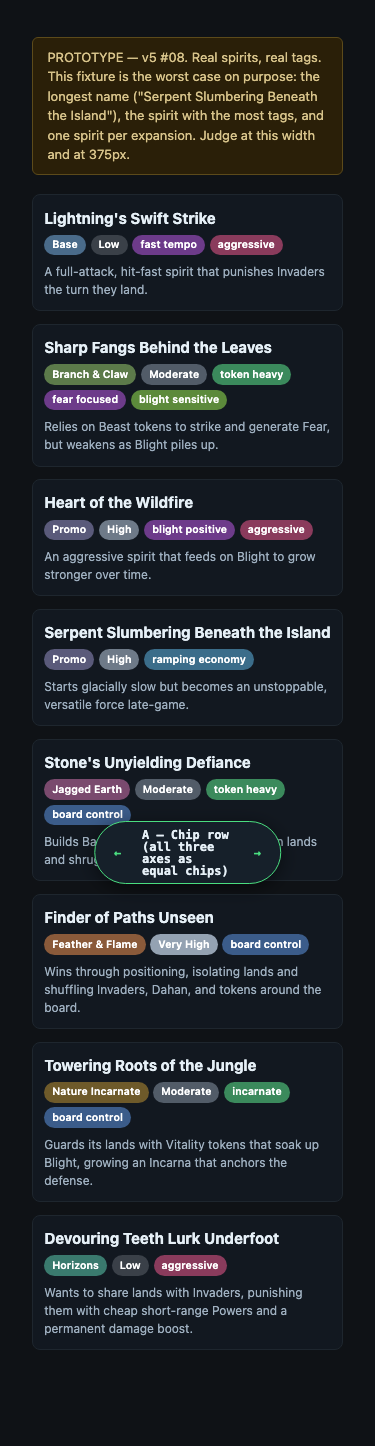
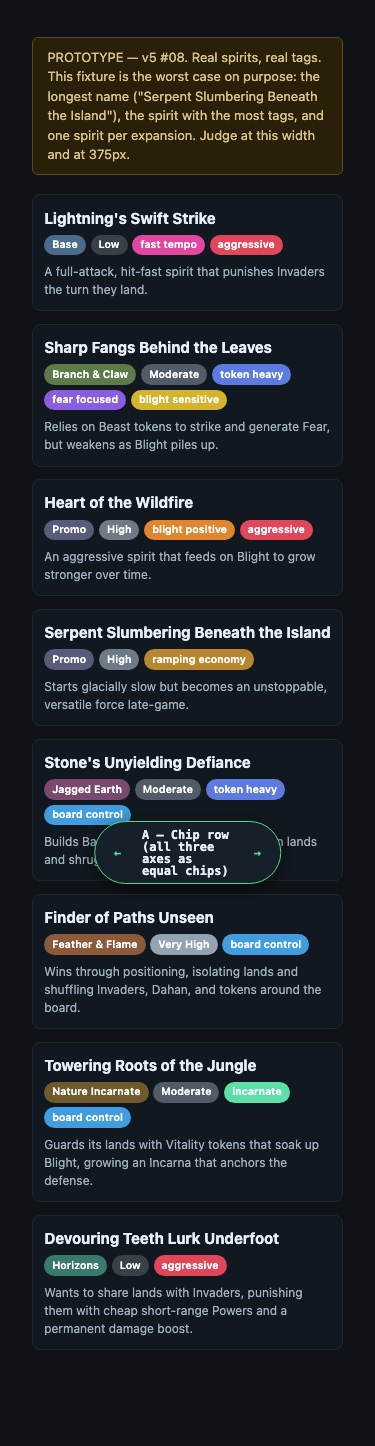
v5 #08 prototype round 2: fix tag colour collisions, add E/F (stripe + chips)
Owner feedback on round 1: D's coloured name didn't share a visual
language with the tags, and more importantly the 8-colour hash palette
for 11 known tags guaranteed collisions (token-heavy and blight-sensitive
both rendered the same green in the C screenshots) - two different tags
reading as the same colour defeats the point of colour-coding.

Fixed the palette: every known tag now gets an explicit, distinct,
saturated colour, a different hue family entirely from the muted
expansion palette, so a tag chip can't be mistaken for an expansion
stripe. Hash fallback only fires for a future unmapped tag.

Added Variant E (stripe for expansion + solid tag chips) and Variant F
(stripe for expansion + outlined tag chips) - both keep C's liked stripe
idea but bring back A's chip styling, scoped to tags only, giving
"provenance" (stripe) and "playstyle fact" (chip) distinct vocabularies
per the owner's ask. Re-screenshotted A and C under the fixed palette so
the comparison set is current.

diff --git a/src/prototypes/v5-tag-colors/palette.ts b/src/prototypes/v5-tag-colors/palette.ts
@@ -51,11 +51,27 @@ export function complexityColor(c: Complexity): string {
 /** For Variant B's difficulty-pip idiom (●●○○) - ordinal position, not a colour. */
 export const COMPLEXITY_LEVEL: Record<Complexity, number> = { Low: 1, Moderate: 2, High: 3, 'Very High': 4 }
 
-const TAG_PALETTE = ['#8a6d3b', '#3b6d8a', '#6d3b8a', '#3b8a5c', '#8a3b5c', '#5c8a3b', '#3b5c8a', '#8a5c3b']
-// Same hues, lifted for use as text colour on this app's dark background (deck.css) - the chip
-// backgrounds above are dark enough to need white text on top; a tag rendered as bare text
-// needs the colour itself to carry contrast.
-const TAG_TEXT_PALETTE = ['#d9b876', '#76b8d9', '#b876d9', '#76d99e', '#d976a3', '#9ed976', '#76a3d9', '#d9a376']
+// v5 #08 owner feedback on the first pass: the original 8-colour hash palette for 11 known tags
+// guaranteed collisions (blight-sensitive and token-heavy both landed on the same green in
+// Variant C's screenshot) - two *different* tags reading as the *same* colour breaks the whole
+// point of colour-coding. Every known tag now gets an explicit, distinct, saturated hue - a
+// different family entirely from EXPANSION_COLOR's muted "jewel tones", so a tag chip can never
+// be mistaken for an expansion stripe by hue alone. The hash fallback only fires for a future tag
+// this file hasn't been updated for yet.
+const TAG_COLOR: Record<string, string> = {
+  aggressive: '#e0475a',
+  'blight-positive': '#e0862f',
+  'blight-sensitive': '#d4b32f',
+  'board-control': '#3f9de0',
+  coastal: '#2fb8c4',
+  'dahan-synergy': '#4fb84a',
+  'fast-tempo': '#e0479e',
+  'fear-focused': '#8a5ce0',
+  incarnate: '#5ce0a8',
+  'ramping-economy': '#b8862f',
+  'token-heavy': '#5c7ae0',
+}
+const TAG_FALLBACK_PALETTE = ['#e0475a', '#3f9de0', '#4fb84a', '#e0862f', '#8a5ce0', '#2fb8c4']
 
 function hashString(s: string): number {
   let h = 0
@@ -64,11 +80,14 @@ function hashString(s: string): number {
 }
 
 export function tagColor(tag: string): string {
-  return TAG_PALETTE[hashString(tag) % TAG_PALETTE.length]
+  return TAG_COLOR[tag] ?? TAG_FALLBACK_PALETTE[hashString(tag) % TAG_FALLBACK_PALETTE.length]
 }
 
+// Tag colours above are already bright/saturated enough to read as text on this app's dark
+// background - unlike the expansion palette, there's no separate darker "chip fill" version to
+// lift from, so this is the same value. Kept as its own function so callers don't care which.
 export function tagTextColor(tag: string): string {
-  return TAG_TEXT_PALETTE[hashString(tag) % TAG_TEXT_PALETTE.length]
+  return tagColor(tag)
 }
 
 export function tagLabel(tag: string): string {

diff --git a/src/prototypes/v5-tag-colors/VariantE.tsx b/src/prototypes/v5-tag-colors/VariantE.tsx
@@ -1,0 +1,40 @@
+import type { Spirit } from '../../domain/types'
+import { COMPLEXITY_LEVEL, EXPANSION_COLOR, tagColor, tagLabel } from './palette'
+
+/** v5 #08 PROTOTYPE — Variant E: "stripe for expansion, solid chips for tags." Owner feedback on
+ * the first round: A/B's chip styling for tags was good, but C/D's plain coloured *text* for tags
+ * read as the same kind of thing as a coloured expansion name - no visual boundary between "this
+ * is an expansion" and "this is a playstyle tag." This keeps C's liked stripe (expansion stays
+ * peripheral, on the edge, name stays plain white) but brings back A's solid pill chips - just
+ * for tags, not for expansion/complexity, so the eye reads two clearly different vocabularies:
+ * a stripe is provenance, a chip is a fact about how the spirit plays. */
+export function VariantE({ spirits }: { spirits: Spirit[] }) {
+  return (
+    <ul className="tp-grid">
+      {spirits.map((spirit) => {
+        const level = COMPLEXITY_LEVEL[spirit.complexity]
+        return (
+          <li key={spirit.id} className="tp-tile tp-tile-stripe" style={{ borderLeftColor: EXPANSION_COLOR[spirit.expansion] }}>
+            <div className="tp-name-row">
+              <h3>{spirit.name}</h3>
+              <span className="tp-complexity-dots" title={spirit.complexity}>
+                {[1, 2, 3, 4].map((n) => (
+                  <span key={n} className={n <= level ? 'tp-dot tp-dot-filled' : 'tp-dot'} />
+                ))}
+              </span>
+            </div>
+            <p className="tp-tag-line">{spirit.expansion}</p>
+            <div className="tp-chip-row tp-chip-row-tight">
+              {spirit.tags.map((tag) => (
+                <span key={tag} className="tp-chip tp-chip-small" style={{ background: tagColor(tag) }}>
+                  {tagLabel(tag)}
+                </span>
+              ))}
+            </div>
+            <p>{spirit.summary}</p>
+          </li>
+        )
+      })}
+    </ul>
+  )
+}

diff --git a/src/prototypes/v5-tag-colors/VariantF.tsx b/src/prototypes/v5-tag-colors/VariantF.tsx
@@ -1,0 +1,39 @@
+import type { Spirit } from '../../domain/types'
+import { COMPLEXITY_LEVEL, EXPANSION_COLOR, tagColor, tagLabel } from './palette'
+
+/** v5 #08 PROTOTYPE — Variant F: "stripe for expansion, outlined chips for tags." Same idea as
+ * E - stripe stays the only expansion signal, tags get their own distinct chip vocabulary - but
+ * lighter-weight: an outlined pill (coloured border + coloured text, transparent fill) instead of
+ * E's solid fill, so a spirit with 3 tags doesn't turn into a wall of solid colour blocks. Tests
+ * whether the lighter chip still reads as clearly "a chip" (bounded, tag-shaped) rather than
+ * regressing to C/D's plain-text problem. */
+export function VariantF({ spirits }: { spirits: Spirit[] }) {
+  return (
+    <ul className="tp-grid">
+      {spirits.map((spirit) => {
+        const level = COMPLEXITY_LEVEL[spirit.complexity]
+        return (
+          <li key={spirit.id} className="tp-tile tp-tile-stripe" style={{ borderLeftColor: EXPANSION_COLOR[spirit.expansion] }}>
+            <div className="tp-name-row">
+              <h3>{spirit.name}</h3>
+              <span className="tp-complexity-dots" title={spirit.complexity}>
+                {[1, 2, 3, 4].map((n) => (
+                  <span key={n} className={n <= level ? 'tp-dot tp-dot-filled' : 'tp-dot'} />
+                ))}
+              </span>
+            </div>
+            <p className="tp-tag-line">{spirit.expansion}</p>
+            <div className="tp-chip-row tp-chip-row-tight">
+              {spirit.tags.map((tag) => (
+                <span key={tag} className="tp-chip-outline" style={{ borderColor: tagColor(tag), color: tagColor(tag) }}>
+                  {tagLabel(tag)}
+                </span>
+              ))}
+            </div>
+            <p>{spirit.summary}</p>
+          </li>
+        )
+      })}
+    </ul>
+  )
+}

diff --git a/src/prototypes/v5-tag-colors/TagColorsPrototype.tsx b/src/prototypes/v5-tag-colors/TagColorsPrototype.tsx
@@ -7,6 +7,8 @@ import { VariantA } from './VariantA'
 import { VariantB } from './VariantB'
 import { VariantC } from './VariantC'
 import { VariantD } from './VariantD'
+import { VariantE } from './VariantE'
+import { VariantF } from './VariantF'
 
 const spirits = spiritsData as Spirit[]
 const fixture = pickFixture(spirits)
@@ -16,6 +18,8 @@ const VARIANTS = {
   B: { label: 'B — Badge + dots, tags as text', Component: VariantB },
   C: { label: 'C — Accent stripe, colour as wayfinding', Component: VariantC },
   D: { label: 'D — C, but the name is coloured too', Component: VariantD },
+  E: { label: 'E — Stripe for expansion, solid chips for tags', Component: VariantE },
+  F: { label: 'F — Stripe for expansion, outlined chips for tags', Component: VariantF },
 } as const
 
 type VariantKey = keyof typeof VARIANTS

diff --git a/src/prototypes/v5-tag-colors/prototype.css b/src/prototypes/v5-tag-colors/prototype.css
@@ -123,6 +123,25 @@
   margin: 0.25rem 0 0;
 }
 
+/* Variants E/F: stripe for expansion, chips for tags only */
+.tp-chip-row-tight {
+  margin-top: 0.4rem;
+}
+.tp-chip-small {
+  padding: 0.1rem 0.45rem;
+  font-size: 10px;
+}
+.tp-chip-outline {
+  display: inline-block;
+  padding: 0.08rem 0.45rem;
+  border: 1px solid;
+  border-radius: 999px;
+  font-size: 10px;
+  font-weight: 600;
+  background: transparent;
+  white-space: nowrap;
+}
+
 /* Switcher, per the prototype skill's spec */
 .tp-switcher {
   position: fixed;
